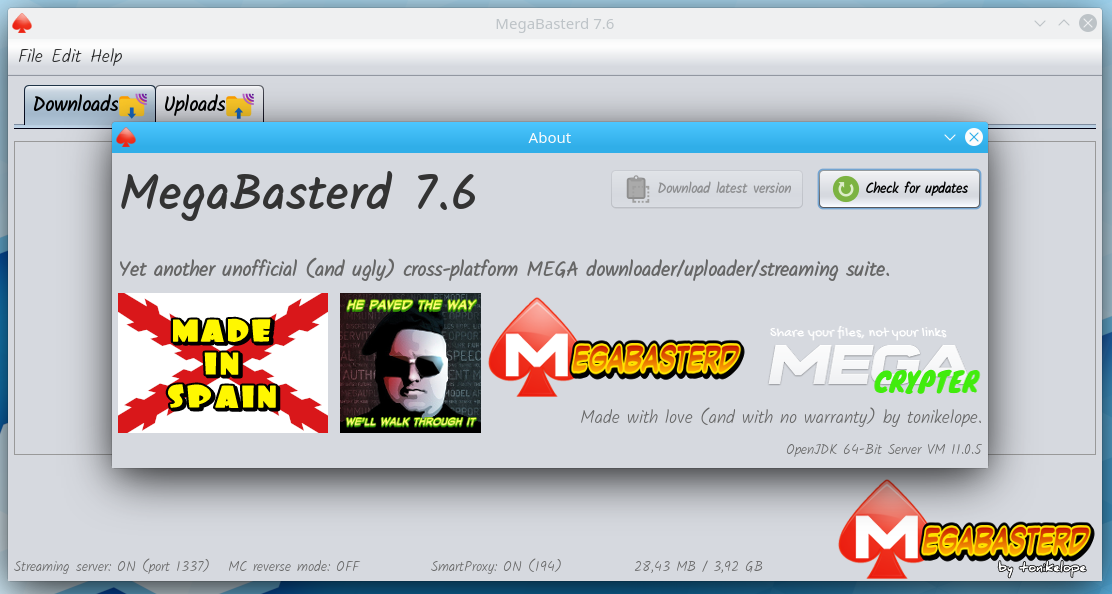
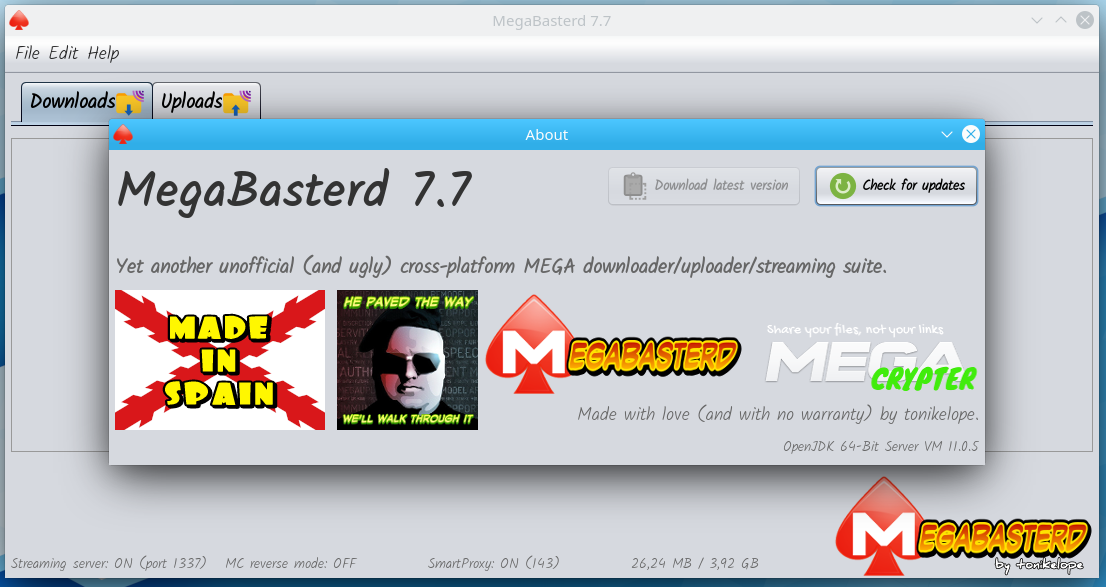
7.7
- Ghost downloads resume fix

(cherry picked from commit c1e1a287f4a0d5194556f19bfb62ea0475430314)

diff --git a/src/main/java/com/tonikelope/megabasterd/MainPanel.java b/src/main/java/com/tonikelope/megabasterd/MainPanel.java
@@ -32,6 +32,7 @@ import java.util.ArrayList;
 import java.util.Arrays;
 import java.util.HashMap;
 import java.util.Iterator;
+import java.util.Map;
 import java.util.Timer;
 import java.util.TimerTask;
 import java.util.UUID;
@@ -54,7 +55,7 @@ import javax.swing.UIManager;
  */
 public final class MainPanel {
 
-    public static final String VERSION = "7.6";
+    public static final String VERSION = "7.7";
     public static final int THROTTLE_SLICE_SIZE = 16 * 1024;
     public static final int DEFAULT_BYTE_BUFFER_SIZE = 16 * 1024;
     public static final int STREAMER_PORT = 1337;
@@ -1192,9 +1193,13 @@ public final class MainPanel {
 
                             String email = (String) o.get("email");
 
+                            if (_mega_accounts.get(email) == null) {
+                                email = null;
+                            }
+
                             MegaAPI ma = new MegaAPI();
 
-                            if (!tthis.isUse_mega_account_down() || (_mega_accounts.get(email) != null && (ma = checkMegaAccountLoginAndShowMasterPassDialog(tthis, getView(), email)) != null)) {
+                            if (email == null || !tthis.isUse_mega_account_down() || (ma = checkMegaAccountLoginAndShowMasterPassDialog(tthis, getView(), email)) != null) {
 
                                 Download download = new Download(tthis, ma, (String) url, (String) o.get("path"), (String) o.get("filename"), (String) o.get("filekey"), (Long) o.get("filesize"), (String) o.get("filepass"), (String) o.get("filenoexpire"), _use_slots_down, false, (String) o.get("custom_chunks_dir"), false);
 
@@ -1203,6 +1208,8 @@ public final class MainPanel {
                                 conta_downloads++;
 
                                 downloads_queue_iterator.remove();
+                            } else {
+                                tot_downloads--;
                             }
                         }
                     }
@@ -1211,6 +1218,34 @@ public final class MainPanel {
 
                     if (!downloads_queue.isEmpty()) {
                         DBTools.insertDownloadsQueue(downloads_queue);
+                    }
+
+                    if (!res.isEmpty()) {
+
+                        for (Map.Entry<String, HashMap<String, Object>> entry : res.entrySet()) {
+
+                            String email = (String) entry.getValue().get("email");
+
+                            if (_mega_accounts.get(email) == null) {
+                                email = null;
+                            }
+
+                            MegaAPI ma = new MegaAPI();
+
+                            if (email == null || !tthis.isUse_mega_account_down() || (ma = checkMegaAccountLoginAndShowMasterPassDialog(tthis, getView(), email)) != null) {
+
+                                Download download = new Download(tthis, ma, (String) entry.getKey(), (String) entry.getValue().get("path"), (String) entry.getValue().get("filename"), (String) entry.getValue().get("filekey"), (Long) entry.getValue().get("filesize"), (String) entry.getValue().get("filepass"), (String) entry.getValue().get("filenoexpire"), _use_slots_down, false, (String) entry.getValue().get("custom_chunks_dir"), false);
+
+                                getDownload_manager().getTransference_provision_queue().add(download);
+
+                                conta_downloads++;
+
+                            } else {
+
+                                tot_downloads--;
+                            }
+                        }
+
                     }
 
                 } catch (SQLException ex) {
@@ -1380,6 +1415,38 @@ public final class MainPanel {
 
                     if (!uploads_queue.isEmpty()) {
                         DBTools.insertUploadsQueue(uploads_queue);
+                    }
+
+                    if (!res.isEmpty()) {
+
+                        for (Map.Entry<String, HashMap<String, Object>> entry : res.entrySet()) {
+
+                            String email = (String) entry.getValue().get("email");
+
+                            if (_mega_accounts.get(email) != null) {
+
+                                MegaAPI ma;
+
+                                if ((ma = checkMegaAccountLoginAndShowMasterPassDialog(tthis, getView(), email)) != null) {
+
+                                    Upload upload = new Upload(tthis, ma, (String) entry.getKey(), (String) entry.getValue().get("parent_node"), (String) entry.getValue().get("ul_key") != null ? bin2i32a(BASE642Bin((String) entry.getValue().get("ul_key"))) : null, (String) entry.getValue().get("url"), (String) entry.getValue().get("root_node"), BASE642Bin((String) entry.getValue().get("share_key")), (String) entry.getValue().get("folder_link"), false);
+
+                                    getUpload_manager().getTransference_provision_queue().add(upload);
+
+                                    conta_uploads++;
+
+                                    uploads_queue_iterator.remove();
+
+                                }
+
+                            } else {
+
+                                deleteUpload((String) entry.getValue().get("filename"), email);
+
+                                tot_uploads--;
+                            }
+                        }
+
                     }
 
                 } catch (SQLException ex) {
